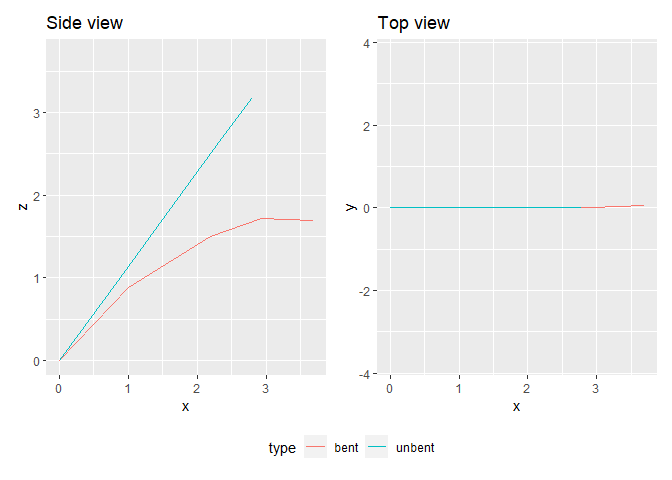
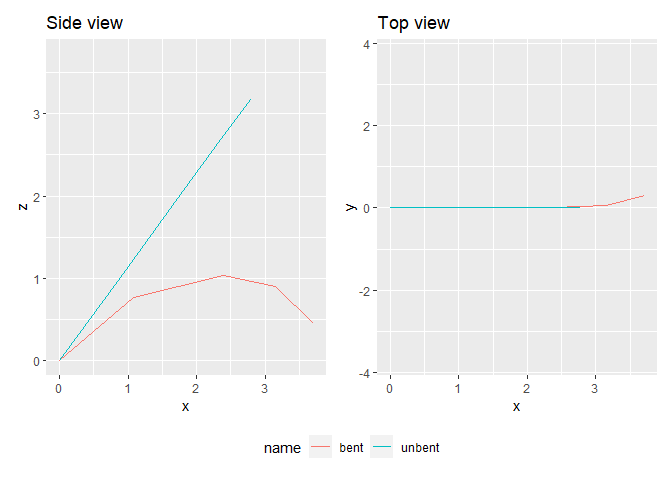
Update plot_bending(): now we can compare any number of beams

diff --git a/README.md b/README.md
@@ -38,16 +38,16 @@ df_unbent = unbend(field_data)
 df_unbent$distance_application = distance_weight_sine(df_unbent$x)
 
 # (Re-)computing the deformation:
-df_bent = bend(df_unbent, elastic_modulus = 2000, shear_modulus = 400, step = 0.02, points = 100, iterations = 15, verbose = TRUE)
-#>  Final torsion angle at the tip (degree) =  12.52822
+df_bent = bend(df_unbent, elastic_modulus = 1200, shear_modulus = 100, step = 0.02, points = 100, iterations = 15, verbose = TRUE)
+#>  Final torsion angle at the tip (degree) =  37.91962
 
 df_bent
-#>          x            y         z    length  angle_xy    angle_xz   torsion
-#> 1 0.000000 0.000000e+00 0.0000000 0.0000000  0.000000 0.000000000  4.000000
-#> 2 1.005821 2.560607e-05 0.8804207 1.3367185 41.196484 0.001458629  4.032577
-#> 3 2.189133 1.221958e-03 1.5040225 1.3375757 27.789072 0.057927116  4.680782
-#> 4 2.938415 1.010048e-02 1.7168802 0.7789798 15.857866 0.678887946  7.234918
-#> 5 3.694703 5.296550e-02 1.6982406 0.7577320 -1.409568 3.243945798 12.528219
+#>          x            y         z    length   angle_xy     angle_xz   torsion
+#> 1 0.000000 0.0000000000 0.0000000 0.0000000   0.000000  0.000000000  4.000000
+#> 2 1.085347 0.0001879442 0.7668137 1.3289023  35.241771  0.009921628  4.130507
+#> 3 2.390765 0.0086790523 1.0299259 1.3316966  11.395287  0.372675923  6.727513
+#> 4 3.154218 0.0675902388 0.9025891 0.7762381  -9.441675  4.412435490 16.918753
+#> 5 3.712503 0.2987318001 0.4561007 0.7513063 -36.461526 22.490548518 37.919620
 ```
 
 You can plot the results using:
